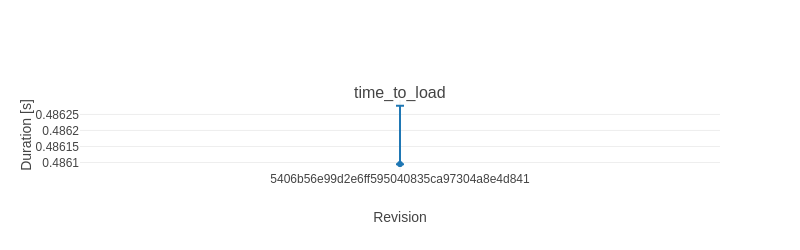
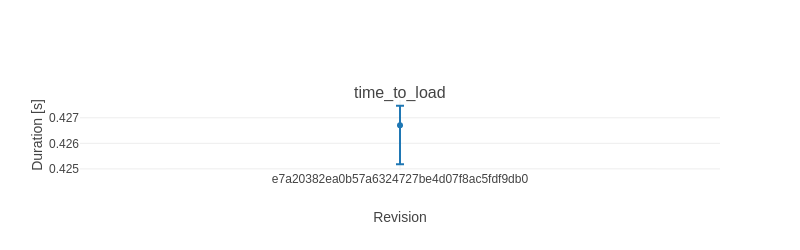
Deploying to benchmarks from @ EpiAware/ReparameterisedDistributions.jl@e7a20382ea0b57a6324727be4d07f8ac5fdf9db0 🚀

Changed region(s): [[0.3125, 0.672, 0.6562, 0.756], [0.0312, 0.392, 0.125, 0.7]]

diff --git a/history/table.md b/history/table.md
@@ -1,8 +1,8 @@
-|              | 5406b56e99d2e6... |
+|              | e7a20382ea0b57... |
 |:-------------|:-----------------:|
-| time_to_load | 0.486 ± 0.00018 s |
+| time_to_load | 0.427 ± 0.0023 s  |
 
-|              | 5406b56e99d2e6...       |
+|              | e7a20382ea0b57...       |
 |:-------------|:-----------------------:|
 | time_to_load | 0.149 k allocs: 11.2 kB |
 

diff --git a/history/README.md b/history/README.md
@@ -1,6 +1,6 @@
 # ReparameterisedDistributions.jl benchmark history
 
-Revisions: 5406b56e99d2e6ff595040835ca97304a8e4d841
+Revisions: e7a20382ea0b57a6324727be4d07f8ac5fdf9db0
 
 See `table.md` for the ratio summary and the PNG
 files in this folder for per-benchmark timelines.